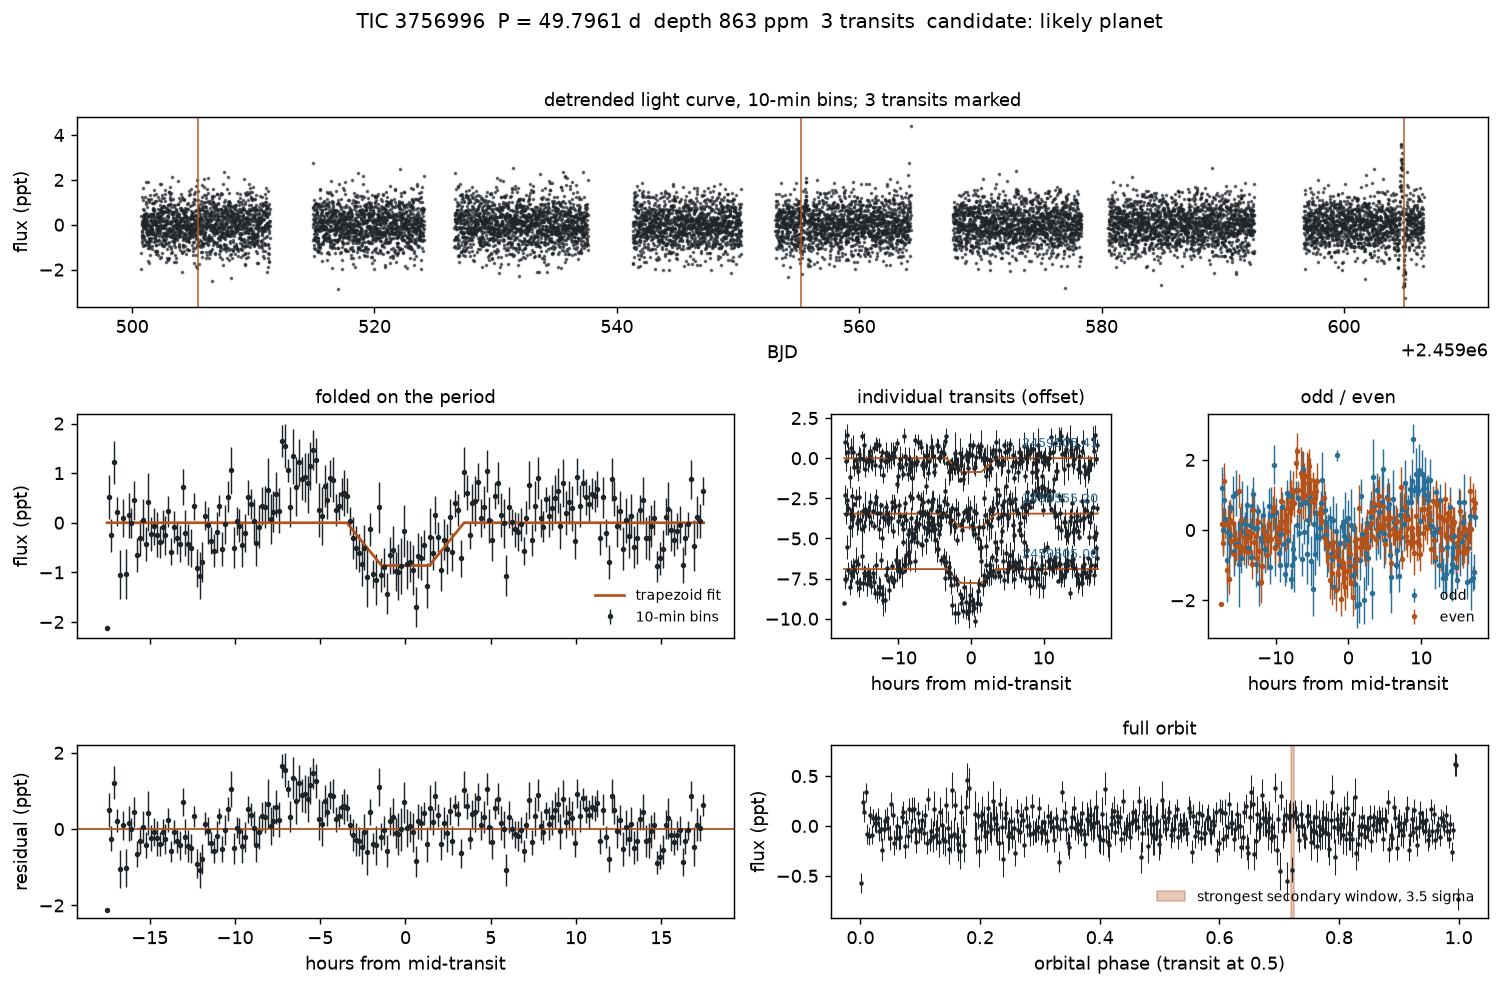
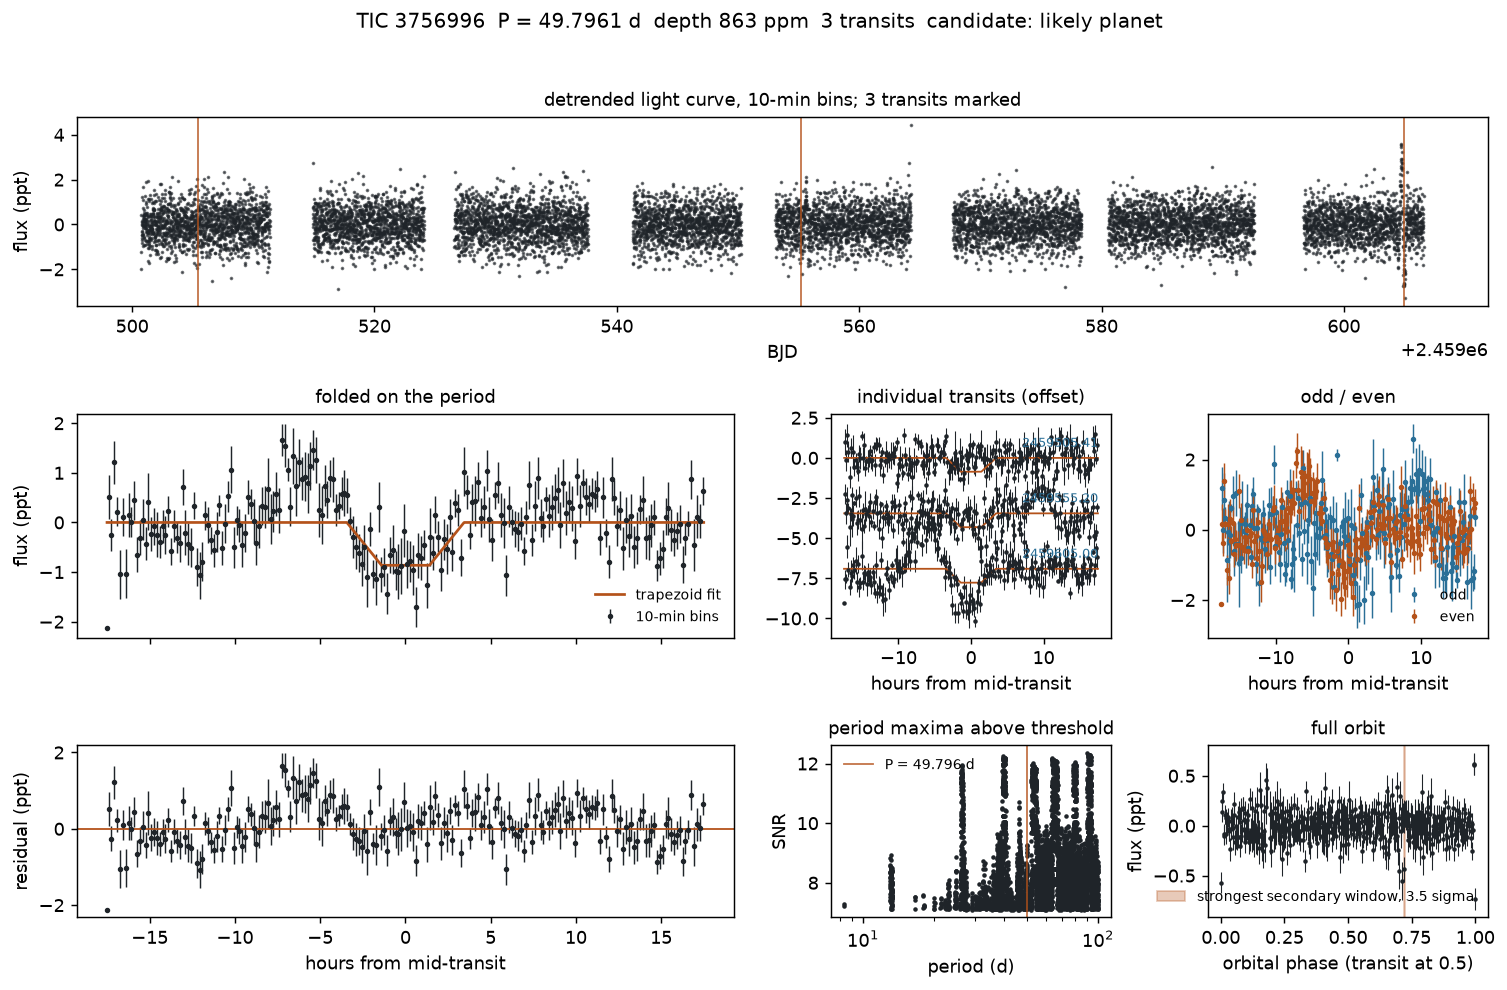
Publish: the detector runs again on each CTOI star for the period maxima panel of its figure

diff --git a/fbls/survey/run.py b/fbls/survey/run.py
@@ -263,6 +263,17 @@ def fpp_star(tic, root, search, vetting, pixel):
     return {"tic": int(tic), "events": out}
 
 
+def period_maxima(star, config):
+    """(period, SNR) of the period maxima above threshold: the detector run again on one star."""
+    import torch
+    from fbls import search_transits
+    from fbls.core import gpu64
+    result = search_transits(gpu64(star["time_bjd"]), gpu64(star["flux"]), gpu64(star["flux_err"]),
+                             torch.as_tensor(star["sector"], device="cuda").long(), config=config)
+    table = result.table.detach().cpu().numpy()
+    return table[:, 0], table[:, 3]
+
+
 def assemble(tic, root):
     """Final events of one star from the stage files: pixel result applied, FPP attached, tier set."""
     from .pixels import apply_pixel_test
@@ -331,7 +342,7 @@ def published_before(public, today):
 def publish(tics, root, public, author):
     """Cumulative `public/candidates.csv` and `public/ctoi.csv` (every star, current rules), plus the
     folder of the day with the stars first published today and, for each of its CTOI rows, the
-    supporting figure ExoFOP asks for. ExoFOP needs period, epoch, depth and duration for cTOI
+    supporting figure ExoFOP asks for (with the period maxima of a fresh detector run on that star). ExoFOP needs period, epoch, depth and duration for cTOI
     consideration, so single events stay in the candidate table only."""
     from .ctoi import COLUMNS
     from .figures import candidate_figure
@@ -361,7 +372,8 @@ def publish(tics, root, public, author):
                 m = e["metrics"]
                 title = (f"TIC {e['tic']}  P = {m['period_days']:.4f} d  depth {m['depth_ppm']:.0f} ppm  "
                          f"{m['transits']} transits  {e['tier']}")
-                candidate_figure(prep, m, title, day / "figures" / f"{e['tic']}_{e['id']}.png")
+                maxima = period_maxima(star, search_config(read(root, "search", e["tic"])["config"]))
+                candidate_figure(prep, m, title, day / "figures" / f"{e['tic']}_{e['id']}.png", maxima)
     return len(everything), sum(len(g) for g in ctoi.values()), len(new)
 
 

diff --git a/fbls/survey/figures.py b/fbls/survey/figures.py
@@ -1,6 +1,7 @@
 """Supporting figure of a candidate for ExoFOP and the paper: the detrended light curve with the
 transits marked, the folded curve with the fitted trapezoid and its residuals, each transit on
-its own, odd against even transits, and the full orbit with the strongest secondary window."""
+its own, odd against even transits, the period maxima of the search above threshold, and the
+full orbit with the strongest secondary window."""
 import numpy as np
 
 from .vetting import trapezoid, wrap
@@ -19,7 +20,7 @@ def binned(x, y, width):
     return mean_x, mean_y, scatter
 
 
-def candidate_figure(prep, metrics, title, path):
+def candidate_figure(prep, metrics, title, path, maxima=None):
     import matplotlib
     matplotlib.use("Agg")
     import matplotlib.pyplot as plt
@@ -89,7 +90,17 @@ def candidate_figure(prep, metrics, title, path):
     ax.set_xlabel("hours from mid-transit")
     ax.legend(fontsize=8, frameon=False)
 
-    ax = fig.add_subplot(grid[2, 2:])
+    ax = fig.add_subplot(grid[2, 2])
+    if maxima is not None and len(maxima[0]):
+        ax.plot(maxima[0], maxima[1], ".", color=DARK, ms=3)
+        ax.axvline(period, color=ORANGE, lw=1, alpha=.8, label=f"P = {period:.3f} d")
+        ax.set_xscale("log")
+        ax.legend(fontsize=8, frameon=False)
+    ax.set_xlabel("period (d)")
+    ax.set_ylabel("SNR")
+    ax.set_title("period maxima above threshold", fontsize=10)
+
+    ax = fig.add_subplot(grid[2, 3])
     orbit = wrap(phase + period / 2, period) / period + .5
     x, y, e = binned(orbit, flux, max(duration / period / 2, 1 / 400))
     ax.errorbar(x, y, e, fmt=".", color=DARK, ms=3, lw=.6)
